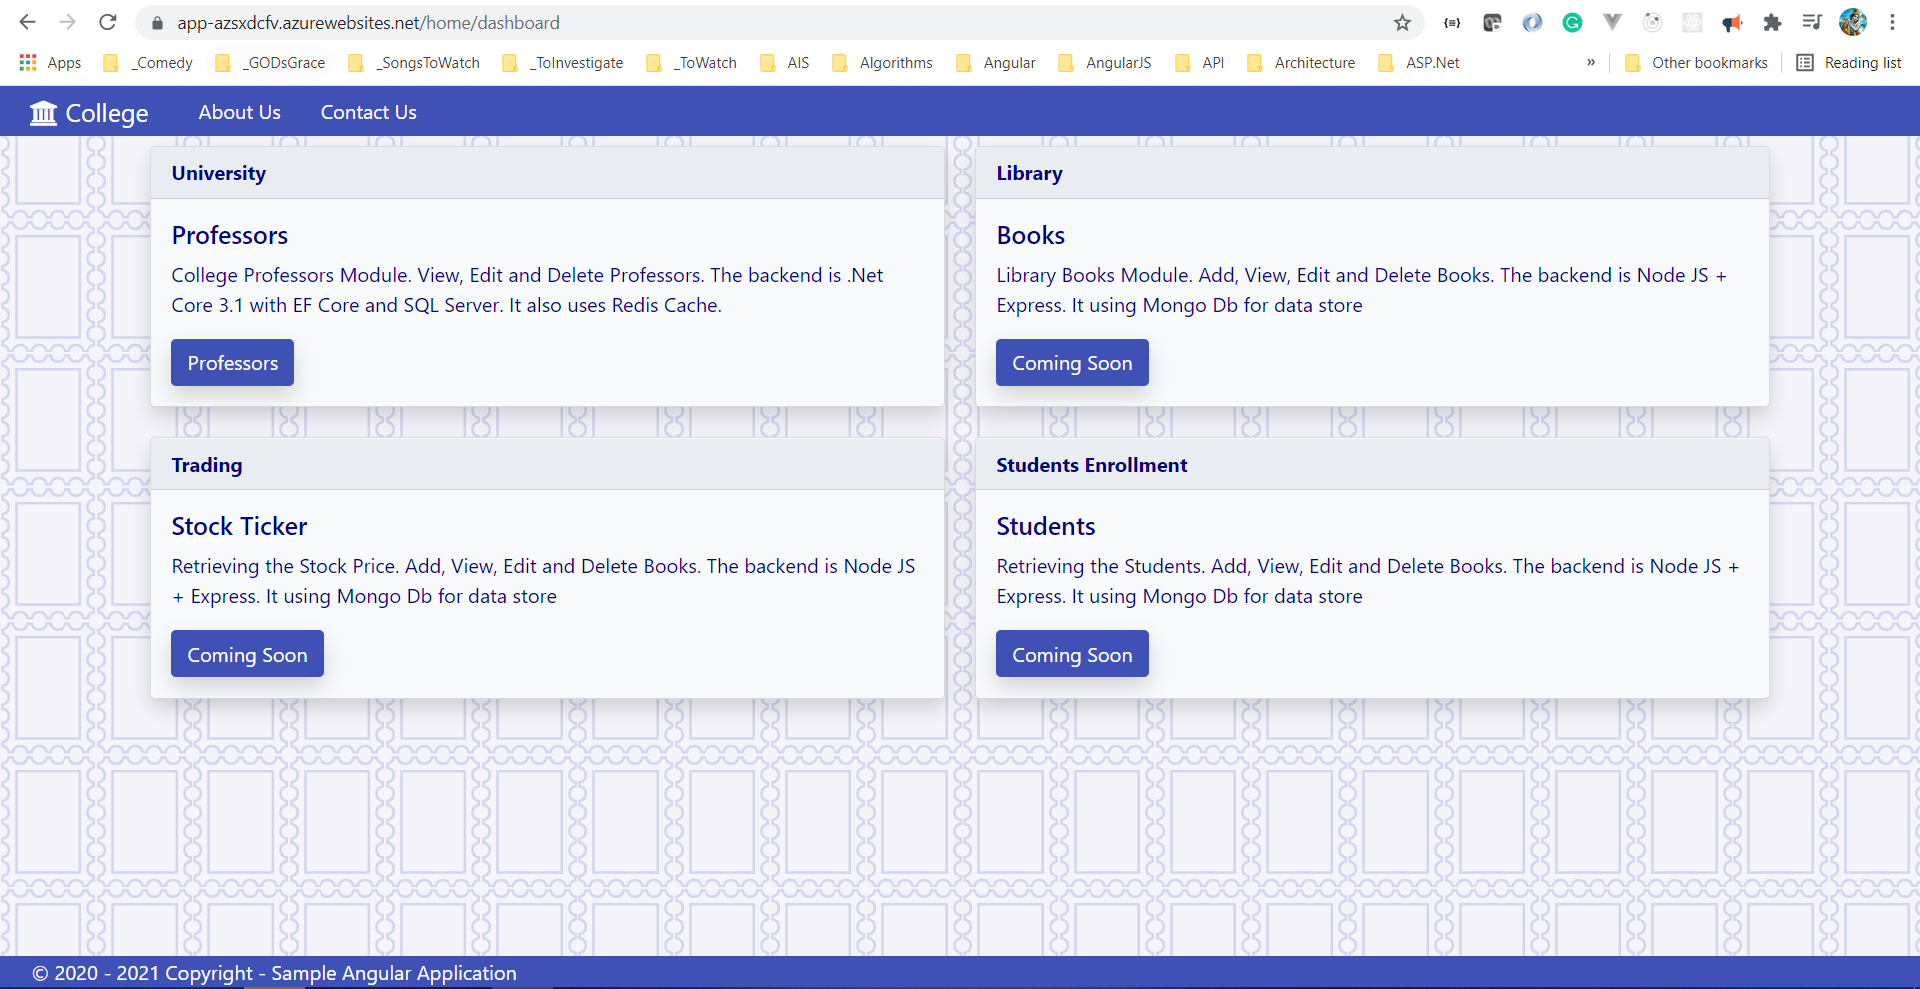
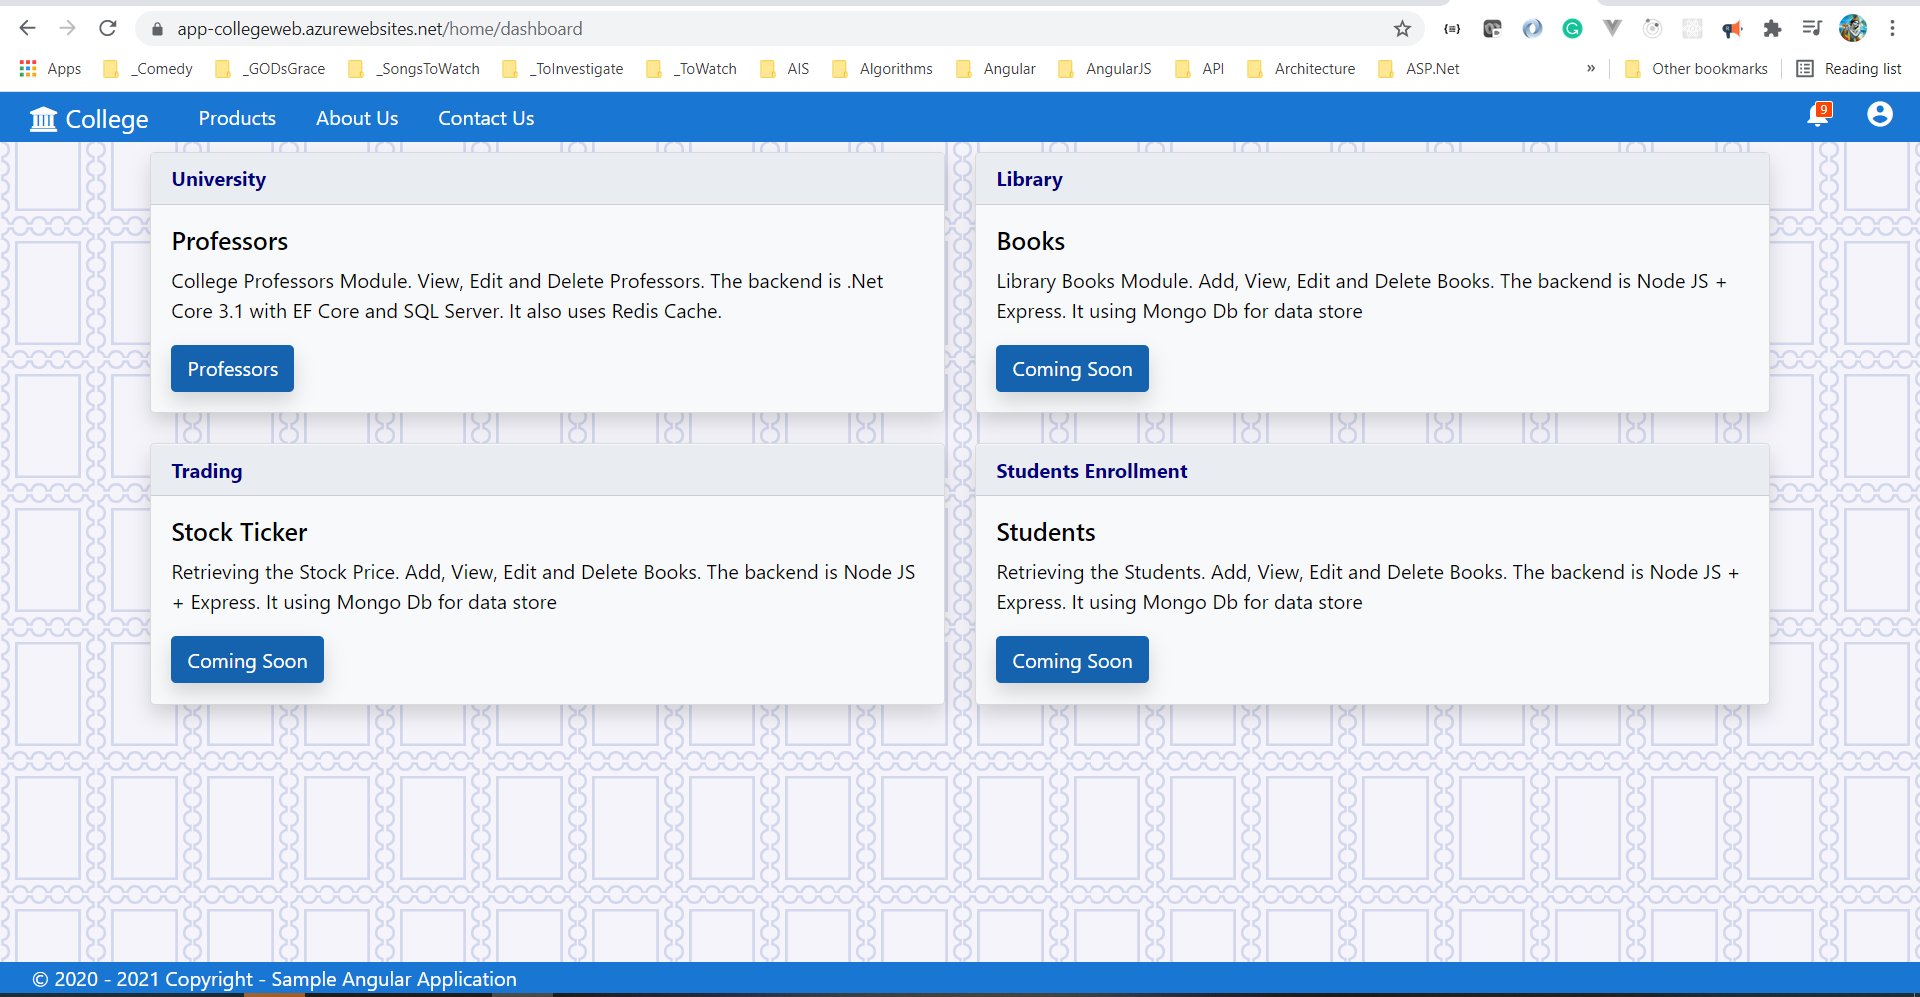
Today's work

diff --git a/MicrosoftReactor/15Sep2021_AppServiceWebApps/README.md b/MicrosoftReactor/15Sep2021_AppServiceWebApps/README.md
@@ -119,11 +119,11 @@ Please refer *NgWeb_WebApp.sh* from **infrastructure** folder.
 > 1. Login using `az login`
 > 1. Verify the account `az account show`
 > 1. Create App Service Plan, App Service Web App using the Azure CLI
-> 1. Set `Local Git` as `Deployment` souce in `Azure CLI`
+> 1. Set `Local Git` as `Deployment` source in `Azure CLI`
 > 1. Execute `npm run build`
-> 1. Execute `git clone https://app-azsxdcfv.scm.azurewebsites.net:443/app-azsxdcfv.git` inside **dist** folder
-> 1. Copy the content from **dist/college-ngweb** to **dist/app-azsxdcfv**
-> 1. Change Directory into **dist/app-azsxdcfv**
+> 1. Execute `git clone https://app-collegeweb.scm.azurewebsites.net:443/app-collegeweb.git` inside **dist** folder
+> 1. Copy the content from **dist/college-ngweb** to **dist/app-collegeweb**
+> 1. Change Directory into **dist/app-collegeweb**
 > 1. Execute `git add .` | `git commit -m "Initial Version` | `git push`
 > 1. Browse the site
 
@@ -133,9 +133,9 @@ Please refer *NgWeb_WebApp.sh* from **infrastructure** folder.
 SUBSCRIPTION="SwamyPKV VSPS"
 RESOURCEGROUP="rg-az204-webapps-reactor-001"
 LOCATION="eastus"
-PLANNAME="plan-azsxdcfv2"
+PLANNAME="plan-collegeweb"
 PLANSKU="F1"
-SITENAME="app-azsxdcfv2"
+SITENAME="app-collegeweb"
 
 az login
 az account show -o table
